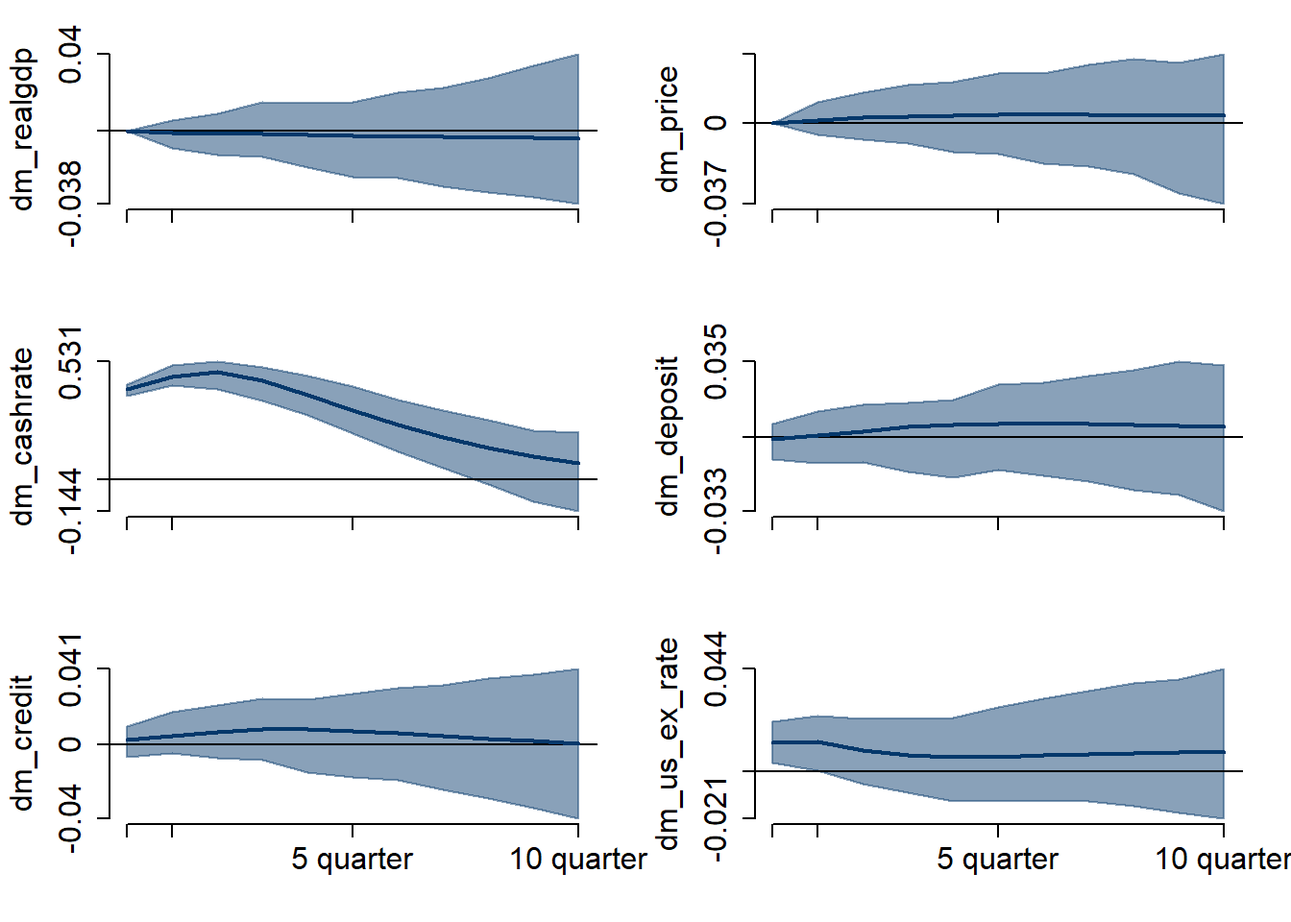
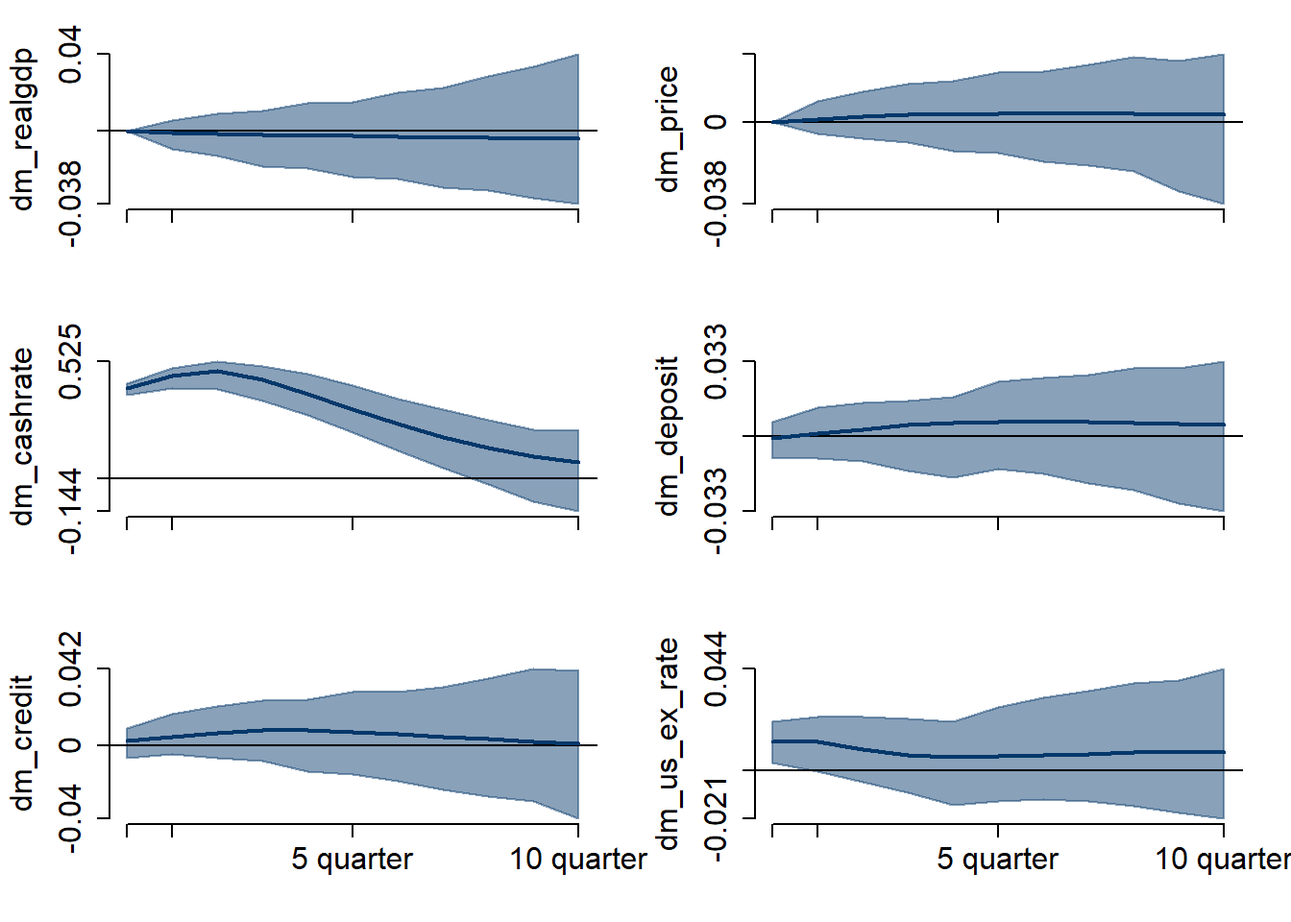
Update for kappa estimation
Update for kappa estimation

diff --git a/docs/index.html b/docs/index.html
@@ -668,7 +668,7 @@ B_0' &amp;=
 <span id="cb6-68"><a href="#cb6-68" aria-hidden="true" tabindex="-1"></a>}</span></code><button title="Copy to Clipboard" class="code-copy-button"><i class="bi"></i></button></pre></div>
 </details>
 </div>
-<p>The posterior <span class="math inline">\(B_0\)</span> matrix requires a normalization since it exhibits symmetric distribution round zero. Below is the normalization function for this. The matrix shown below is the mean of impulse responses of infinity horizon that I impose a restriction. The restriction imposed is that the monetary policy has no effect on GDP in the rong-run, such that, the element of (3,5) should be close to zero in the matrix.</p>
+<p>The posterior <span class="math inline">\(B_0\)</span> matrix requires a normalization since it exhibits symmetric distribution round zero. Below is the normalization function for this. The matrix shown below is the mean of impulse responses of infinity horizon that I impose a restriction. The restriction imposed is that the monetary policy has no effect on GDP in the long-run, such that, element (3,5) of the infinite impulse response matrix should be close to zero in the matrix.</p>
 <div class="cell">
 <details>
 <summary>Show code</summary>
@@ -736,8 +736,8 @@ B_0' &amp;=
 <span id="cb7-62"><a href="#cb7-62" aria-hidden="true" tabindex="-1"></a>(t1<span class="sc">-</span>t0)[<span class="dv">3</span>]<span class="sc">/</span><span class="dv">60</span> <span class="co"># Time of computations in minutes</span></span></code><button title="Copy to Clipboard" class="code-copy-button"><i class="bi"></i></button></pre></div>
 </details>
 <div class="cell-output cell-output-stdout">
-<pre><code>  elapsed 
-0.6828333 </code></pre>
+<pre><code>elapsed 
+ 0.7055 </code></pre>
 </div>
 <details>
 <summary>Show code</summary>
@@ -951,8 +951,8 @@ ex_t \\
 <span id="cb12-97"><a href="#cb12-97" aria-hidden="true" tabindex="-1"></a>(t1<span class="sc">-</span>t0)[<span class="dv">3</span>]<span class="sc">/</span><span class="dv">60</span> <span class="co"># Time of computations in minutes</span></span></code><button title="Copy to Clipboard" class="code-copy-button"><i class="bi"></i></button></pre></div>
 </details>
 <div class="cell-output cell-output-stdout">
-<pre><code>   elapsed 
-0.03566667 </code></pre>
+<pre><code>elapsed 
+  0.041 </code></pre>
 </div>
 <details>
 <summary>Show code</summary>
@@ -1209,17 +1209,16 @@ P(A,\Sigma|Y,X,h) = MN (\bar{\alpha},\bar{V},\bar{S},\bar{\nu})
 <h2 class="anchored" data-anchor-id="derivation-1">Derivation</h2>
 <p><span class="math display">\[
 \begin{align*}
-p(\kappa|Y,X,A) &amp;= L(Y|X,A,\Sigma) \times p(\kappa_A) \times p(A|\Sigma,\kappa) \times p(\Sigma) \\
-                &amp;\propto p(\kappa) \times p(A|\Sigma,\kappa) \\
-                &amp;= \kappa^{\frac{1}{2}-1} \exp\left\{ -\frac{\kappa}{\underline{s}}\right\} \times \det(\kappa \underline{V})^{-\frac{N}{2}} \times \exp \left\{-\frac{1}{2} \text{tr}[\Sigma ^{-1} (A - \underline{A})' (\kappa \underline{V})^{-1}] (A - \underline{A}) \right\} \\
-                &amp;= \kappa^{\frac{1}{2} - \frac{KN}{2} - 1} \times \exp \left\{-\frac{1}{2} \left[\frac{1}{\kappa}\text{tr} \Sigma^{-1}(A - \underline{A})'(\underline{V}^{-1})(A - \underline{A})\right] + \frac{2}{s}\kappa \right\}     
+p(\kappa|Y,X,A) &amp;\propto  p(\kappa | \underline{s}, \underline{a})  \times p(A|\Sigma,\kappa) \\
+                &amp;= \kappa^{\underline{a} - 1} \times \exp\left\{ -\frac{\kappa}{\underline{s}}\right\} \times \det(\kappa^{-1} \underline{V})^{-\frac{N}{2}} \times \exp \left\{-\frac{1}{2} \text{tr}[\Sigma ^{-1} (A - \underline{A})' (\kappa^{-1} \underline{V})^{-1}] (A - \underline{A}) \right\} \\
+                &amp;= \kappa^{-\frac{-2\underline{a}-KN}{2} - 1} \times \exp \left\{-\frac{1}{2}\kappa \left[\text{tr} \Sigma^{-1}(A - \underline{A})'(\underline{V}^{-1})(A - \underline{A}) + \frac{1}{\underline{s}}\right] \right\}     
 \end{align*}
-\]</span> which it is the kernel of Generalized Inverse Gaussian (GIG) distribution with</p>
+\]</span> and it gives</p>
 <p><span class="math display">\[
 \begin{align*}
-\lambda &amp;= \frac{1}{2} - \frac{KN}{2} \\
-\chi    &amp;= tr (\Sigma^{-1}(A - \underline{A})'(\underline{V}^{-1})(A - \underline{A})) \\
-\psi    &amp;= \frac{2}{s} \\
+\lambda &amp;= \underline{a} + \frac{KN}{2} \\
+\chi    &amp;= tr [\Sigma^{-1}(A - \underline{A})'(\underline{V}^{-1})(A - \underline{A})] \\
+\psi    &amp;= \frac{2}{\underline{s}} \\
 \end{align*}
 \]</span></p>
 <p>Gibbs Sampler:</p>
@@ -1229,7 +1228,7 @@ p(\kappa|Y,X,A) &amp;= L(Y|X,A,\Sigma) \times p(\kappa_A) \times p(A|\Sigma,\kap
 <li>Draw <span class="math inline">\((A,\Sigma)^{(s)} \sim p(A,\Sigma|Y,X,\kappa^{(s-1)})\)</span></li>
 <li>Draw <span class="math inline">\((\kappa)^{(s)} \sim p(\kappa|Y,X,A, \Sigma)\)</span></li>
 </ol>
-<p>Repeat step 1 and 2 for S1 + S2 times and discard S1.</p>
+<p>Repeat step 1 and 2 for S1 + S2 times and discard S1. I set <span class="math inline">\(\underline{s}=0.1\)</span> and <span class="math inline">\(\underline{a}=0.5\)</span>.</p>
 <div class="cell">
 <details>
 <summary>Show code</summary>
@@ -1245,56 +1244,57 @@ p(\kappa|Y,X,A) &amp;= L(Y|X,A,\Sigma) \times p(\kappa_A) \times p(A|\Sigma,\kap
 <span id="cb16-10"><a href="#cb16-10" aria-hidden="true" tabindex="-1"></a>  <span class="do">############################################################</span></span>
 <span id="cb16-11"><a href="#cb16-11" aria-hidden="true" tabindex="-1"></a>  <span class="co"># Initialize kappa</span></span>
 <span id="cb16-12"><a href="#cb16-12" aria-hidden="true" tabindex="-1"></a>  kappa[<span class="dv">1</span>] <span class="ot">=</span> <span class="dv">1</span></span>
-<span id="cb16-13"><a href="#cb16-13" aria-hidden="true" tabindex="-1"></a>  kappas   <span class="ot">=</span> <span class="fl">0.1</span></span>
-<span id="cb16-14"><a href="#cb16-14" aria-hidden="true" tabindex="-1"></a>  kappani  <span class="ot">=</span> <span class="dv">1</span><span class="sc">/</span><span class="dv">2</span></span>
-<span id="cb16-15"><a href="#cb16-15" aria-hidden="true" tabindex="-1"></a>  </span>
-<span id="cb16-16"><a href="#cb16-16" aria-hidden="true" tabindex="-1"></a>  kappa<span class="fl">.1</span>           <span class="ot">=</span> kappa<span class="fl">.1</span></span>
-<span id="cb16-17"><a href="#cb16-17" aria-hidden="true" tabindex="-1"></a>  kappa<span class="fl">.2</span>           <span class="ot">=</span> <span class="dv">100</span></span>
-<span id="cb16-18"><a href="#cb16-18" aria-hidden="true" tabindex="-1"></a>  kappa<span class="fl">.3</span>           <span class="ot">=</span> <span class="dv">1</span></span>
-<span id="cb16-19"><a href="#cb16-19" aria-hidden="true" tabindex="-1"></a>  ex2_A.prior           <span class="ot">=</span> <span class="fu">matrix</span>(<span class="dv">0</span>,<span class="fu">nrow</span>(ex2_A.hat),<span class="fu">ncol</span>(ex2_A.hat))</span>
-<span id="cb16-20"><a href="#cb16-20" aria-hidden="true" tabindex="-1"></a>  ex2_A.prior[<span class="dv">2</span><span class="sc">:</span>(N<span class="sc">+</span><span class="dv">1</span>),] <span class="ot">=</span> kappa<span class="fl">.3</span><span class="sc">*</span><span class="fu">diag</span>(N)</span>
-<span id="cb16-21"><a href="#cb16-21" aria-hidden="true" tabindex="-1"></a>  ex2_V.prior           <span class="ot">=</span> <span class="fu">diag</span>(<span class="fu">c</span>(kappa<span class="fl">.2</span>,kappa<span class="fl">.1</span><span class="sc">*</span>((<span class="dv">1</span><span class="sc">:</span>p)<span class="sc">^</span>(<span class="sc">-</span><span class="dv">2</span>))<span class="sc">%x%</span><span class="fu">rep</span>(<span class="dv">1</span>,N)))</span>
-<span id="cb16-22"><a href="#cb16-22" aria-hidden="true" tabindex="-1"></a>  ex2_S.prior           <span class="ot">=</span> <span class="fu">diag</span>(<span class="fu">diag</span>(ex2_Sigma.hat))</span>
-<span id="cb16-23"><a href="#cb16-23" aria-hidden="true" tabindex="-1"></a>  ex2_nu.prior          <span class="ot">=</span> N<span class="sc">+</span><span class="dv">1</span></span>
-<span id="cb16-24"><a href="#cb16-24" aria-hidden="true" tabindex="-1"></a>  </span>
-<span id="cb16-25"><a href="#cb16-25" aria-hidden="true" tabindex="-1"></a>  <span class="co"># normal-inverse Wishard posterior parameters</span></span>
-<span id="cb16-26"><a href="#cb16-26" aria-hidden="true" tabindex="-1"></a>  <span class="do">############################################################</span></span>
-<span id="cb16-27"><a href="#cb16-27" aria-hidden="true" tabindex="-1"></a>  ex2_V.bar.inv   <span class="ot">=</span> <span class="fu">t</span>(X)<span class="sc">%*%</span>X <span class="sc">+</span> <span class="fu">diag</span>(<span class="dv">1</span><span class="sc">/</span><span class="fu">diag</span>(ex2_V.prior))</span>
-<span id="cb16-28"><a href="#cb16-28" aria-hidden="true" tabindex="-1"></a>  ex2_V.bar       <span class="ot">=</span> <span class="fu">solve</span>(ex2_V.bar.inv)</span>
-<span id="cb16-29"><a href="#cb16-29" aria-hidden="true" tabindex="-1"></a>  ex2_A.bar       <span class="ot">=</span> kappa<span class="sc">*</span>(ex2_V.bar<span class="sc">%*%</span>(<span class="fu">t</span>(X)<span class="sc">%*%</span>Y <span class="sc">+</span> <span class="fu">diag</span>(<span class="dv">1</span><span class="sc">/</span><span class="fu">diag</span>(ex2_V.prior))<span class="sc">%*%</span>ex2_A.prior))</span>
-<span id="cb16-30"><a href="#cb16-30" aria-hidden="true" tabindex="-1"></a>  ex2_nu.bar      <span class="ot">=</span> <span class="fu">nrow</span>(Y) <span class="sc">+</span> ex2_nu.prior</span>
-<span id="cb16-31"><a href="#cb16-31" aria-hidden="true" tabindex="-1"></a>  ex2_S.bar       <span class="ot">=</span> ex2_S.prior <span class="sc">+</span> <span class="fu">t</span>(Y)<span class="sc">%*%</span>Y <span class="sc">+</span> <span class="fu">t</span>(ex2_A.prior)<span class="sc">%*%</span><span class="fu">diag</span>(<span class="dv">1</span><span class="sc">/</span><span class="fu">diag</span>(ex2_V.prior))<span class="sc">%*%</span>ex2_A.prior <span class="sc">-</span> <span class="fu">t</span>(ex2_A.bar)<span class="sc">%*%</span>ex2_V.bar.inv<span class="sc">%*%</span>ex2_A.bar</span>
-<span id="cb16-32"><a href="#cb16-32" aria-hidden="true" tabindex="-1"></a>  ex2_S.bar.inv   <span class="ot">=</span> <span class="fu">solve</span>(ex2_S.bar)</span>
-<span id="cb16-33"><a href="#cb16-33" aria-hidden="true" tabindex="-1"></a>  </span>
-<span id="cb16-34"><a href="#cb16-34" aria-hidden="true" tabindex="-1"></a>  <span class="co"># posterior draws </span></span>
-<span id="cb16-35"><a href="#cb16-35" aria-hidden="true" tabindex="-1"></a>  <span class="do">############################################################</span></span>
-<span id="cb16-36"><a href="#cb16-36" aria-hidden="true" tabindex="-1"></a>  ex2_Sigma.posterior   <span class="ot">=</span> <span class="fu">rWishart</span>(S3, <span class="at">df=</span>ex2_nu.bar, <span class="at">Sigma=</span>ex2_S.bar.inv)</span>
-<span id="cb16-37"><a href="#cb16-37" aria-hidden="true" tabindex="-1"></a>  ex2_Sigma.posterior   <span class="ot">=</span> <span class="fu">apply</span>(ex2_Sigma.posterior,<span class="dv">3</span>,solve)</span>
-<span id="cb16-38"><a href="#cb16-38" aria-hidden="true" tabindex="-1"></a>  ex2_Sigma.posterior   <span class="ot">=</span> <span class="fu">array</span>(ex2_Sigma.posterior,<span class="fu">c</span>(N,N,S3))</span>
-<span id="cb16-39"><a href="#cb16-39" aria-hidden="true" tabindex="-1"></a>  ex2_A.posterior       <span class="ot">=</span> <span class="fu">array</span>(<span class="fu">rnorm</span>(<span class="fu">prod</span>(<span class="fu">c</span>(<span class="fu">dim</span>(ex2_A.bar),S3))),<span class="fu">c</span>(<span class="fu">dim</span>(ex2_A.bar),S3))</span>
-<span id="cb16-40"><a href="#cb16-40" aria-hidden="true" tabindex="-1"></a>  ex2_B.posterior       <span class="ot">=</span> <span class="fu">array</span>(<span class="cn">NA</span>,<span class="fu">c</span>(N,N,S3))</span>
-<span id="cb16-41"><a href="#cb16-41" aria-hidden="true" tabindex="-1"></a>  ex2_L                 <span class="ot">=</span> <span class="fu">t</span>(<span class="fu">chol</span>(ex2_V.bar))</span>
-<span id="cb16-42"><a href="#cb16-42" aria-hidden="true" tabindex="-1"></a>  ex2_B1.posterior      <span class="ot">=</span> <span class="fu">array</span>(<span class="cn">NA</span>,<span class="fu">c</span>(N,(<span class="dv">1</span><span class="sc">+</span>N<span class="sc">*</span>p),S3))</span>
-<span id="cb16-43"><a href="#cb16-43" aria-hidden="true" tabindex="-1"></a>  </span>
-<span id="cb16-44"><a href="#cb16-44" aria-hidden="true" tabindex="-1"></a>  <span class="cf">for</span> (s <span class="cf">in</span> <span class="dv">1</span><span class="sc">:</span>S3){</span>
-<span id="cb16-45"><a href="#cb16-45" aria-hidden="true" tabindex="-1"></a>    ex2_cholSigma.s       <span class="ot">=</span> <span class="fu">chol</span>(ex2_Sigma.posterior[,,s])</span>
-<span id="cb16-46"><a href="#cb16-46" aria-hidden="true" tabindex="-1"></a>    ex2_B.posterior[,,s]  <span class="ot">=</span> <span class="fu">t</span>(ex2_cholSigma.s)</span>
-<span id="cb16-47"><a href="#cb16-47" aria-hidden="true" tabindex="-1"></a>    ex2_A.posterior[,,s]  <span class="ot">=</span> ex2_A.bar <span class="sc">+</span> ex2_L<span class="sc">%*%</span>ex2_A.posterior[,,s]<span class="sc">%*%</span>ex2_cholSigma.s</span>
-<span id="cb16-48"><a href="#cb16-48" aria-hidden="true" tabindex="-1"></a>    ex2_B1.posterior[,,s] <span class="ot">=</span> ex2_B.posterior[,,s]<span class="sc">%*%</span><span class="fu">t</span>(ex2_A.posterior[,,s])</span>
-<span id="cb16-49"><a href="#cb16-49" aria-hidden="true" tabindex="-1"></a>    </span>
-<span id="cb16-50"><a href="#cb16-50" aria-hidden="true" tabindex="-1"></a>    <span class="co"># draw kappa</span></span>
-<span id="cb16-51"><a href="#cb16-51" aria-hidden="true" tabindex="-1"></a>    lambda <span class="ot">=</span> <span class="dv">1</span><span class="sc">/</span><span class="dv">2</span> <span class="sc">-</span> p<span class="sc">*</span>N<span class="sc">/</span><span class="dv">2</span></span>
-<span id="cb16-52"><a href="#cb16-52" aria-hidden="true" tabindex="-1"></a>    chi <span class="ot">=</span> <span class="fu">sum</span>(<span class="fu">diag</span>(<span class="fu">solve</span>(ex2_Sigma.posterior[,,s]) <span class="sc">%*%</span> <span class="fu">t</span>(ex2_A.posterior[,,s] <span class="sc">-</span> ex2_A.prior) <span class="sc">%*%</span> <span class="fu">solve</span>(ex2_V.prior) <span class="sc">%*%</span> (ex2_A.posterior[,,s] <span class="sc">-</span> ex2_A.prior)))</span>
-<span id="cb16-53"><a href="#cb16-53" aria-hidden="true" tabindex="-1"></a>    psi <span class="ot">=</span> <span class="dv">2</span><span class="sc">/</span>kappas</span>
-<span id="cb16-54"><a href="#cb16-54" aria-hidden="true" tabindex="-1"></a>    kappa[s] <span class="ot">=</span> GIGrvg<span class="sc">::</span><span class="fu">rgig</span>(<span class="at">n=</span><span class="dv">1</span>,lambda,chi,psi)</span>
-<span id="cb16-55"><a href="#cb16-55" aria-hidden="true" tabindex="-1"></a>  }</span>
-<span id="cb16-56"><a href="#cb16-56" aria-hidden="true" tabindex="-1"></a>  </span>
-<span id="cb16-57"><a href="#cb16-57" aria-hidden="true" tabindex="-1"></a>  <span class="fu">return</span>(<span class="fu">list</span>(<span class="at">ex2_A.posterior     =</span> ex2_A.posterior    [,,(S1<span class="sc">+</span><span class="dv">1</span>)<span class="sc">:</span>(S1<span class="sc">+</span>S2)], </span>
-<span id="cb16-58"><a href="#cb16-58" aria-hidden="true" tabindex="-1"></a>              <span class="at">ex2_B.posterior     =</span> ex2_B.posterior    [,,(S1<span class="sc">+</span><span class="dv">1</span>)<span class="sc">:</span>(S1<span class="sc">+</span>S2)], </span>
-<span id="cb16-59"><a href="#cb16-59" aria-hidden="true" tabindex="-1"></a>              <span class="at">ex2_Sigma.posterior =</span> ex2_Sigma.posterior[,,(S1<span class="sc">+</span><span class="dv">1</span>)<span class="sc">:</span>(S1<span class="sc">+</span>S2)],</span>
-<span id="cb16-60"><a href="#cb16-60" aria-hidden="true" tabindex="-1"></a>              <span class="at">ex2_B1.posterior    =</span> ex2_B1.posterior   [,,(S1<span class="sc">+</span><span class="dv">1</span>)<span class="sc">:</span>(S1<span class="sc">+</span>S2)],</span>
-<span id="cb16-61"><a href="#cb16-61" aria-hidden="true" tabindex="-1"></a>              <span class="at">kappa =</span> kappa[(S1<span class="sc">+</span><span class="dv">1</span>)<span class="sc">:</span>(S1<span class="sc">+</span>S2)]))</span>
-<span id="cb16-62"><a href="#cb16-62" aria-hidden="true" tabindex="-1"></a>}</span></code><button title="Copy to Clipboard" class="code-copy-button"><i class="bi"></i></button></pre></div>
+<span id="cb16-13"><a href="#cb16-13" aria-hidden="true" tabindex="-1"></a>  kappa.s   <span class="ot">=</span> <span class="fl">0.1</span></span>
+<span id="cb16-14"><a href="#cb16-14" aria-hidden="true" tabindex="-1"></a>  kappa.a  <span class="ot">=</span> <span class="fl">0.5</span></span>
+<span id="cb16-15"><a href="#cb16-15" aria-hidden="true" tabindex="-1"></a>  kappani  <span class="ot">=</span> <span class="dv">1</span><span class="sc">/</span><span class="dv">2</span></span>
+<span id="cb16-16"><a href="#cb16-16" aria-hidden="true" tabindex="-1"></a></span>
+<span id="cb16-17"><a href="#cb16-17" aria-hidden="true" tabindex="-1"></a>  kappa<span class="fl">.1</span>           <span class="ot">=</span> kappa<span class="fl">.1</span></span>
+<span id="cb16-18"><a href="#cb16-18" aria-hidden="true" tabindex="-1"></a>  kappa<span class="fl">.2</span>           <span class="ot">=</span> <span class="dv">100</span></span>
+<span id="cb16-19"><a href="#cb16-19" aria-hidden="true" tabindex="-1"></a>  kappa<span class="fl">.3</span>           <span class="ot">=</span> <span class="dv">1</span></span>
+<span id="cb16-20"><a href="#cb16-20" aria-hidden="true" tabindex="-1"></a>  ex2_A.prior           <span class="ot">=</span> <span class="fu">matrix</span>(<span class="dv">0</span>,<span class="fu">nrow</span>(ex2_A.hat),<span class="fu">ncol</span>(ex2_A.hat))</span>
+<span id="cb16-21"><a href="#cb16-21" aria-hidden="true" tabindex="-1"></a>  ex2_A.prior[<span class="dv">2</span><span class="sc">:</span>(N<span class="sc">+</span><span class="dv">1</span>),] <span class="ot">=</span> kappa<span class="fl">.3</span><span class="sc">*</span><span class="fu">diag</span>(N)</span>
+<span id="cb16-22"><a href="#cb16-22" aria-hidden="true" tabindex="-1"></a>  ex2_V.prior           <span class="ot">=</span> <span class="fu">diag</span>(<span class="fu">c</span>(kappa<span class="fl">.2</span>,kappa<span class="fl">.1</span><span class="sc">*</span>((<span class="dv">1</span><span class="sc">:</span>p)<span class="sc">^</span>(<span class="sc">-</span><span class="dv">2</span>))<span class="sc">%x%</span><span class="fu">rep</span>(<span class="dv">1</span>,N)))</span>
+<span id="cb16-23"><a href="#cb16-23" aria-hidden="true" tabindex="-1"></a>  ex2_S.prior           <span class="ot">=</span> <span class="fu">diag</span>(<span class="fu">diag</span>(ex2_Sigma.hat))</span>
+<span id="cb16-24"><a href="#cb16-24" aria-hidden="true" tabindex="-1"></a>  ex2_nu.prior          <span class="ot">=</span> N<span class="sc">+</span><span class="dv">1</span></span>
+<span id="cb16-25"><a href="#cb16-25" aria-hidden="true" tabindex="-1"></a>  </span>
+<span id="cb16-26"><a href="#cb16-26" aria-hidden="true" tabindex="-1"></a>  <span class="co"># normal-inverse Wishard posterior parameters</span></span>
+<span id="cb16-27"><a href="#cb16-27" aria-hidden="true" tabindex="-1"></a>  <span class="do">############################################################</span></span>
+<span id="cb16-28"><a href="#cb16-28" aria-hidden="true" tabindex="-1"></a>  ex2_V.bar.inv   <span class="ot">=</span> <span class="fu">t</span>(X)<span class="sc">%*%</span>X <span class="sc">+</span> <span class="fu">diag</span>(<span class="dv">1</span><span class="sc">/</span><span class="fu">diag</span>(ex2_V.prior))</span>
+<span id="cb16-29"><a href="#cb16-29" aria-hidden="true" tabindex="-1"></a>  ex2_V.bar       <span class="ot">=</span> <span class="fu">solve</span>(ex2_V.bar.inv)</span>
+<span id="cb16-30"><a href="#cb16-30" aria-hidden="true" tabindex="-1"></a>  ex2_A.bar       <span class="ot">=</span> kappa<span class="sc">*</span>(ex2_V.bar<span class="sc">%*%</span>(<span class="fu">t</span>(X)<span class="sc">%*%</span>Y <span class="sc">+</span> <span class="fu">diag</span>(<span class="dv">1</span><span class="sc">/</span><span class="fu">diag</span>(ex2_V.prior))<span class="sc">%*%</span>ex2_A.prior))</span>
+<span id="cb16-31"><a href="#cb16-31" aria-hidden="true" tabindex="-1"></a>  ex2_nu.bar      <span class="ot">=</span> <span class="fu">nrow</span>(Y) <span class="sc">+</span> ex2_nu.prior</span>
+<span id="cb16-32"><a href="#cb16-32" aria-hidden="true" tabindex="-1"></a>  ex2_S.bar       <span class="ot">=</span> ex2_S.prior <span class="sc">+</span> <span class="fu">t</span>(Y)<span class="sc">%*%</span>Y <span class="sc">+</span> <span class="fu">t</span>(ex2_A.prior)<span class="sc">%*%</span><span class="fu">diag</span>(<span class="dv">1</span><span class="sc">/</span><span class="fu">diag</span>(ex2_V.prior))<span class="sc">%*%</span>ex2_A.prior <span class="sc">-</span> <span class="fu">t</span>(ex2_A.bar)<span class="sc">%*%</span>ex2_V.bar.inv<span class="sc">%*%</span>ex2_A.bar</span>
+<span id="cb16-33"><a href="#cb16-33" aria-hidden="true" tabindex="-1"></a>  ex2_S.bar.inv   <span class="ot">=</span> <span class="fu">solve</span>(ex2_S.bar)</span>
+<span id="cb16-34"><a href="#cb16-34" aria-hidden="true" tabindex="-1"></a>  </span>
+<span id="cb16-35"><a href="#cb16-35" aria-hidden="true" tabindex="-1"></a>  <span class="co"># posterior draws </span></span>
+<span id="cb16-36"><a href="#cb16-36" aria-hidden="true" tabindex="-1"></a>  <span class="do">############################################################</span></span>
+<span id="cb16-37"><a href="#cb16-37" aria-hidden="true" tabindex="-1"></a>  ex2_Sigma.posterior   <span class="ot">=</span> <span class="fu">rWishart</span>(S3, <span class="at">df=</span>ex2_nu.bar, <span class="at">Sigma=</span>ex2_S.bar.inv)</span>
+<span id="cb16-38"><a href="#cb16-38" aria-hidden="true" tabindex="-1"></a>  ex2_Sigma.posterior   <span class="ot">=</span> <span class="fu">apply</span>(ex2_Sigma.posterior,<span class="dv">3</span>,solve)</span>
+<span id="cb16-39"><a href="#cb16-39" aria-hidden="true" tabindex="-1"></a>  ex2_Sigma.posterior   <span class="ot">=</span> <span class="fu">array</span>(ex2_Sigma.posterior,<span class="fu">c</span>(N,N,S3))</span>
+<span id="cb16-40"><a href="#cb16-40" aria-hidden="true" tabindex="-1"></a>  ex2_A.posterior       <span class="ot">=</span> <span class="fu">array</span>(<span class="fu">rnorm</span>(<span class="fu">prod</span>(<span class="fu">c</span>(<span class="fu">dim</span>(ex2_A.bar),S3))),<span class="fu">c</span>(<span class="fu">dim</span>(ex2_A.bar),S3))</span>
+<span id="cb16-41"><a href="#cb16-41" aria-hidden="true" tabindex="-1"></a>  ex2_B.posterior       <span class="ot">=</span> <span class="fu">array</span>(<span class="cn">NA</span>,<span class="fu">c</span>(N,N,S3))</span>
+<span id="cb16-42"><a href="#cb16-42" aria-hidden="true" tabindex="-1"></a>  ex2_L                 <span class="ot">=</span> <span class="fu">t</span>(<span class="fu">chol</span>(ex2_V.bar))</span>
+<span id="cb16-43"><a href="#cb16-43" aria-hidden="true" tabindex="-1"></a>  ex2_B1.posterior      <span class="ot">=</span> <span class="fu">array</span>(<span class="cn">NA</span>,<span class="fu">c</span>(N,(<span class="dv">1</span><span class="sc">+</span>N<span class="sc">*</span>p),S3))</span>
+<span id="cb16-44"><a href="#cb16-44" aria-hidden="true" tabindex="-1"></a>  </span>
+<span id="cb16-45"><a href="#cb16-45" aria-hidden="true" tabindex="-1"></a>  <span class="cf">for</span> (s <span class="cf">in</span> <span class="dv">1</span><span class="sc">:</span>S3){</span>
+<span id="cb16-46"><a href="#cb16-46" aria-hidden="true" tabindex="-1"></a>    ex2_cholSigma.s       <span class="ot">=</span> <span class="fu">chol</span>(ex2_Sigma.posterior[,,s])</span>
+<span id="cb16-47"><a href="#cb16-47" aria-hidden="true" tabindex="-1"></a>    ex2_B.posterior[,,s]  <span class="ot">=</span> <span class="fu">t</span>(ex2_cholSigma.s)</span>
+<span id="cb16-48"><a href="#cb16-48" aria-hidden="true" tabindex="-1"></a>    ex2_A.posterior[,,s]  <span class="ot">=</span> ex2_A.bar <span class="sc">+</span> ex2_L<span class="sc">%*%</span>ex2_A.posterior[,,s]<span class="sc">%*%</span>ex2_cholSigma.s</span>
+<span id="cb16-49"><a href="#cb16-49" aria-hidden="true" tabindex="-1"></a>    ex2_B1.posterior[,,s] <span class="ot">=</span> ex2_B.posterior[,,s]<span class="sc">%*%</span><span class="fu">t</span>(ex2_A.posterior[,,s])</span>
+<span id="cb16-50"><a href="#cb16-50" aria-hidden="true" tabindex="-1"></a>    </span>
+<span id="cb16-51"><a href="#cb16-51" aria-hidden="true" tabindex="-1"></a>    <span class="co"># draw kappa</span></span>
+<span id="cb16-52"><a href="#cb16-52" aria-hidden="true" tabindex="-1"></a>    lambda <span class="ot">=</span> kappa.a <span class="sc">+</span> (p<span class="sc">*</span>N<span class="sc">+</span><span class="dv">1</span>)<span class="sc">*</span>N<span class="sc">/</span><span class="dv">2</span></span>
+<span id="cb16-53"><a href="#cb16-53" aria-hidden="true" tabindex="-1"></a>    chi <span class="ot">=</span> <span class="fu">sum</span>(<span class="fu">diag</span>(<span class="fu">solve</span>(ex2_Sigma.posterior[,,s]) <span class="sc">%*%</span> <span class="fu">t</span>(ex2_A.posterior[,,s] <span class="sc">-</span> ex2_A.prior) <span class="sc">%*%</span> <span class="fu">solve</span>(ex2_V.prior) <span class="sc">%*%</span> (ex2_A.posterior[,,s] <span class="sc">-</span> ex2_A.prior)))</span>
+<span id="cb16-54"><a href="#cb16-54" aria-hidden="true" tabindex="-1"></a>    psi <span class="ot">=</span> <span class="dv">2</span><span class="sc">/</span>kappa.s</span>
+<span id="cb16-55"><a href="#cb16-55" aria-hidden="true" tabindex="-1"></a>    kappa[s] <span class="ot">=</span> GIGrvg<span class="sc">::</span><span class="fu">rgig</span>(<span class="at">n=</span><span class="dv">1</span>,lambda,chi,psi)</span>
+<span id="cb16-56"><a href="#cb16-56" aria-hidden="true" tabindex="-1"></a>  }</span>
+<span id="cb16-57"><a href="#cb16-57" aria-hidden="true" tabindex="-1"></a>  </span>
+<span id="cb16-58"><a href="#cb16-58" aria-hidden="true" tabindex="-1"></a>  <span class="fu">return</span>(<span class="fu">list</span>(<span class="at">ex2_A.posterior     =</span> ex2_A.posterior    [,,(S1<span class="sc">+</span><span class="dv">1</span>)<span class="sc">:</span>(S1<span class="sc">+</span>S2)], </span>
+<span id="cb16-59"><a href="#cb16-59" aria-hidden="true" tabindex="-1"></a>              <span class="at">ex2_B.posterior     =</span> ex2_B.posterior    [,,(S1<span class="sc">+</span><span class="dv">1</span>)<span class="sc">:</span>(S1<span class="sc">+</span>S2)], </span>
+<span id="cb16-60"><a href="#cb16-60" aria-hidden="true" tabindex="-1"></a>              <span class="at">ex2_Sigma.posterior =</span> ex2_Sigma.posterior[,,(S1<span class="sc">+</span><span class="dv">1</span>)<span class="sc">:</span>(S1<span class="sc">+</span>S2)],</span>
+<span id="cb16-61"><a href="#cb16-61" aria-hidden="true" tabindex="-1"></a>              <span class="at">ex2_B1.posterior    =</span> ex2_B1.posterior   [,,(S1<span class="sc">+</span><span class="dv">1</span>)<span class="sc">:</span>(S1<span class="sc">+</span>S2)],</span>
+<span id="cb16-62"><a href="#cb16-62" aria-hidden="true" tabindex="-1"></a>              <span class="at">kappa =</span> kappa[(S1<span class="sc">+</span><span class="dv">1</span>)<span class="sc">:</span>(S1<span class="sc">+</span>S2)]))</span>
+<span id="cb16-63"><a href="#cb16-63" aria-hidden="true" tabindex="-1"></a>}</span></code><button title="Copy to Clipboard" class="code-copy-button"><i class="bi"></i></button></pre></div>
 </details>
 </div>
 <p>The distribution of <span class="math inline">\(\kappa\)</span> is as follows:</p>
@@ -1509,41 +1509,41 @@ p(\kappa|Y,X,A) &amp;= L(Y|X,A,\Sigma) \times p(\kappa_A) \times p(A|\Sigma,\kap
 <div class="cell">
 <div class="cell-output cell-output-stdout">
 <pre><code>       [,1]  [,2]
-[1,] -0.056 0.070
+[1,] -0.048 0.076
 [2,]  0.999 0.001
-[3,] -0.007 0.995</code></pre>
+[3,] -0.006 0.996</code></pre>
 </div>
 <div class="cell-output cell-output-stdout">
 <pre><code>       [,1]  [,2]
-[1,]  0.057 0.148
+[1,]  0.074 0.156
 [2,]  1.001 0.003
-[3,] -0.008 0.994</code></pre>
+[3,] -0.009 0.994</code></pre>
 </div>
 </div>
 <p>B.posterior for basic and extended model:</p>
 <div class="cell">
 <div class="cell-output cell-output-stdout">
-<pre><code>      [,1]  [,2]
-[1,] 1.000 0.000
-[2,] 0.022 1.017</code></pre>
+<pre><code>      [,1] [,2]
+[1,] 0.997 0.00
+[2,] 0.019 1.02</code></pre>
 </div>
 <div class="cell-output cell-output-stdout">
 <pre><code>       [,1]  [,2]
-[1,]  1.049 0.000
-[2,] -0.032 1.055</code></pre>
+[1,]  1.045 0.000
+[2,] -0.036 1.057</code></pre>
 </div>
 </div>
 <p>Sigma.posterior for basic and extended model:</p>
 <div class="cell">
 <div class="cell-output cell-output-stdout">
 <pre><code>      [,1]  [,2]
-[1,] 1.000 0.022
-[2,] 0.022 1.037</code></pre>
+[1,] 0.994 0.019
+[2,] 0.019 1.043</code></pre>
 </div>
 <div class="cell-output cell-output-stdout">
 <pre><code>       [,1]   [,2]
-[1,]  1.100 -0.033
-[2,] -0.033  1.115</code></pre>
+[1,]  1.093 -0.038
+[2,] -0.038  1.121</code></pre>
 </div>
 </div>
 <section id="empirical-investigation-for-extended-model-2" class="level2">
